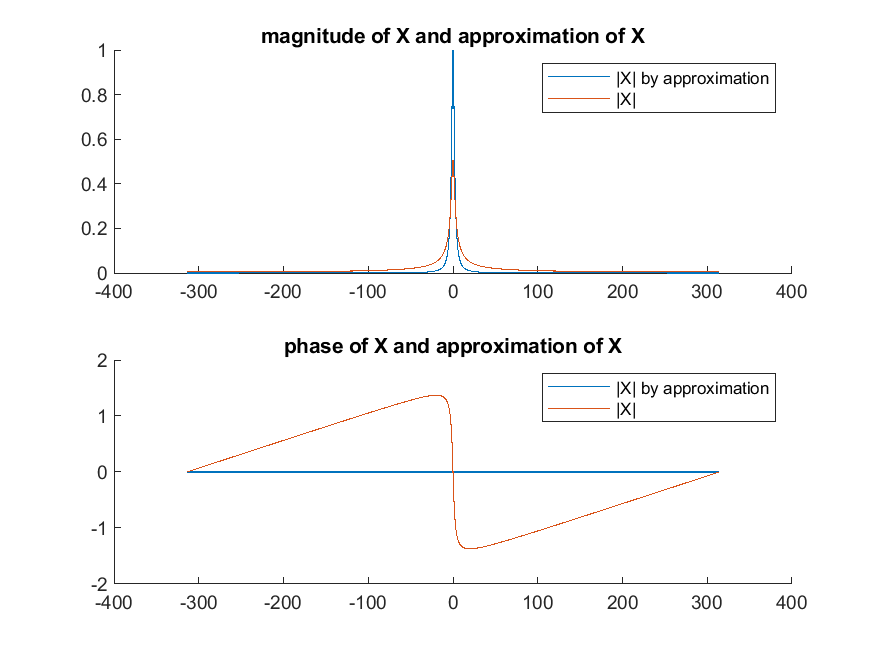
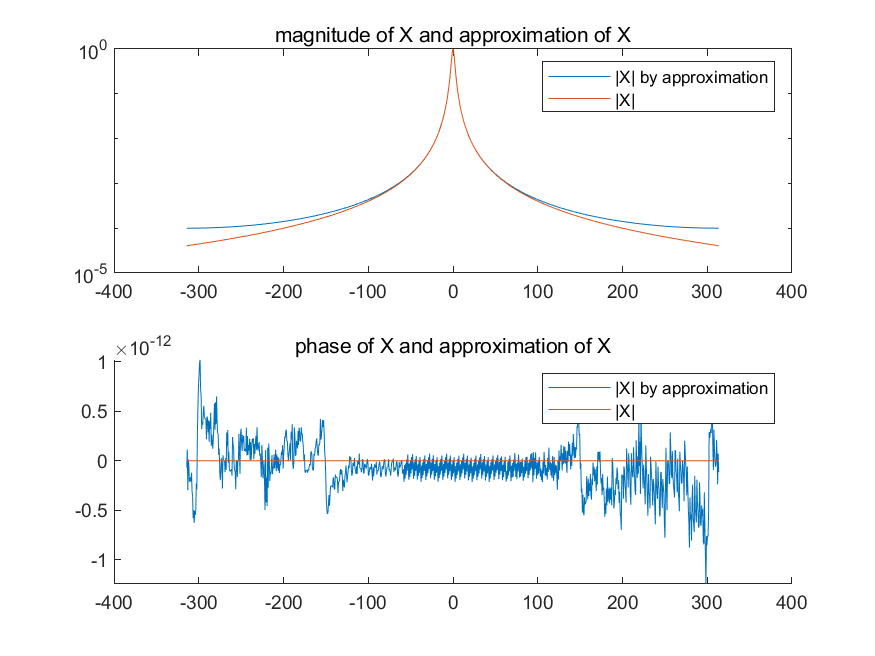
update

diff --git a/LAB4/P4_2_all.m b/LAB4/P4_2_all.m
@@ -1,63 +1,60 @@
 % 4.2(a)
 
 % 4.2(b)
-tau = 0.01
-T = 10
-N = T/tau
+tau=0.01;
+T=10;
+N=T/tau;
 
-t = [0:tau:T-tau]
-y = exp(-2 * abs(t-5))
+t=(0:tau:T-tau);
+y=exp(-2 * abs(t-5));
 
 %4.2(c)
-Y = fftshift(tau*fft(y))
+Y = fftshift(tau*fft(y));
 
 %4.2(d
-w = -(pi/tau)+(0:N-1)*(2*pi/(N*tau))
+w = -(pi/tau)+(0:N-1)*(2*pi/(N*tau));
 
 %4.2(e)
-X = exp(j*5*w).*Y
+X = exp(1i*5*w).*Y;
 
 %4.2(f)
-magnitudeX_app = abs(X)
-phaseX_app = angle(X)
+magnitudeX_app = abs(X);
+phaseX_app = angle(X);
 
-x = exp(-2 * abs(t))
-X2 = fftshift(tau * fft(x))
-magnitudeX = abs(X2)
-phaseX = angle(X2)
+
+X2 = 1 ./ (2 + 1j * w) + 1 ./ (2 - 1j * w);
+magnitudeX = abs(X2);
+phaseX = angle(X2);
 
 figure;
-subplot(2, 1, 1)
-hold on
-semilogy(w, magnitudeX_app , w, magnitudeX)
-legend('|X| by approximation', '|X|', 'Location', 'northeast');
+subplot(2, 1, 1);
+semilogy(w, magnitudeX_app , w, magnitudeX);
+legend('|X| by approximation', '|X| ', 'Location', 'northeast');
 title('magnitude of X and approximation of X');
-subplot(2, 1, 2)
-hold on
-semilogy(w, phaseX_app, w, phaseX)
+subplot(2, 1, 2);
+hold on;
+semilogy(w, phaseX_app, w, phaseX);
 legend('|X| by approximation', '|X|', 'Location', 'northeast');
 title('phase of X and approximation of X');
 saveas(gcf, "plots/P4_2_f_out1.png")
-close
+close;
 
 %4.2(g)
-magnitudeY = abs(Y)
-phaseY = angle(Y)
+magnitudeY = abs(Y);
+phaseY = angle(Y);
 
 figure;
-subplot(2, 1, 1)
-hold on
-semilogy(w, magnitudeY , 'g')
-semilogy(w, magnitudeX, 'b')
+subplot(2, 1, 1);
+semilogy(w, magnitudeY , 'g--h',w, magnitudeX_app, 'b');
 legend('Y', 'X', 'Location', 'northeast');
 title('magnitude of X and Y');
-subplot(2, 1, 2)
-hold on
-semilogy(w, phaseY, 'g')
-semilogy(w, phaseX, 'b')
+subplot(2, 1, 2);
+hold on;
+semilogy(w, phaseY, 'g');
+semilogy(w, phaseX, 'b');
 legend('Y', 'X', 'Location', 'northeast');
 title('phase of X and Y');
 saveas(gcf, "plots/P4_2_f_out2.png")
-close
+
 
 

diff --git a/LAB4/P4_5_all.m b/LAB4/P4_5_all.m
@@ -1,10 +1,9 @@
 % 4.5(a)
-
-a1 = [1 1.5 0.5]
-b1 = [1 -2]
+a1 = [1 1.5 0.5];
+b1 = [1 -2];
 
 % 4.5(b)
-[r1, p1] = residue(b1, a1)
+[r1, p1] = residue(b1, a1);
 
 % r1 = [6, -5]
 % p1 = [-1, -0.5]
@@ -12,10 +11,10 @@ b1 = [1 -2]
 % 4.5(c)
 
 % 4.5(d)
-a2 = [1 7 16 12]
-b2 = [3 10 5]
+a2 = [1 7 16 12];
+b2 = [3 10 5];
 
-[r2, p2] = residue(b2, a2)
+[r2, p2] = residue(b2, a2);
 
 % r2 = [2 1 -3]
 % p2 = [-3 -2 -2]
@@ -24,17 +23,12 @@ b2 = [3 10 5]
 
 % 4.5(g)
 
-a3 = [1 -4]
-b3 = [-4]
+a3 = [1 0 -4];
+b3 = [-4];
 
 % 4.5(h)
-[r3, p3] = residue(b3, a3)
+[r3, p3] = residue(b3, a3);
 
-% r3 = [-4]
-% p3 = [4]
+% r3 = [-1 1]
+% p3 = [2 -2]
 % 4.5(i)
-
-
-
-
-   

diff --git a/LAB4/P4_6_all.m b/LAB4/P4_6_all.m
@@ -1,7 +1,7 @@
 load ctftmod.mat
 
 % 4.6(a)
-z = [dash dash dot dot]
+z = [dash dash dot dot];
 
 % 4.6(b)
 figure;
